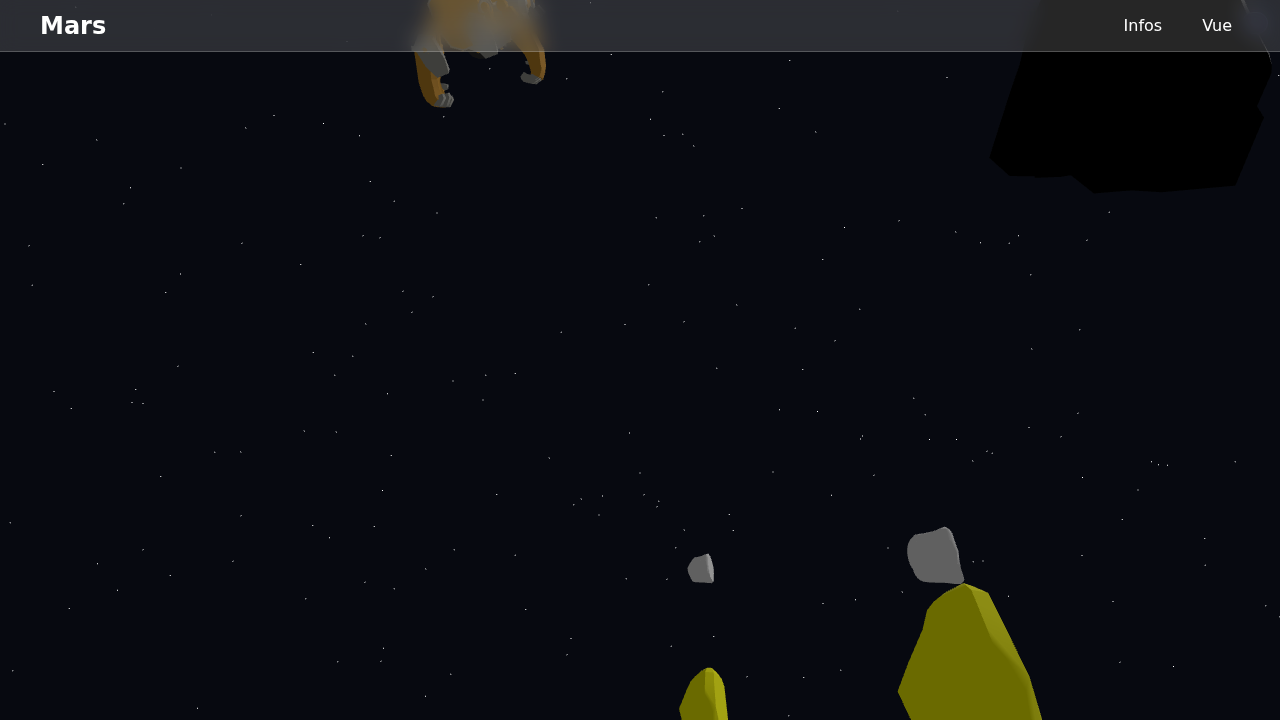
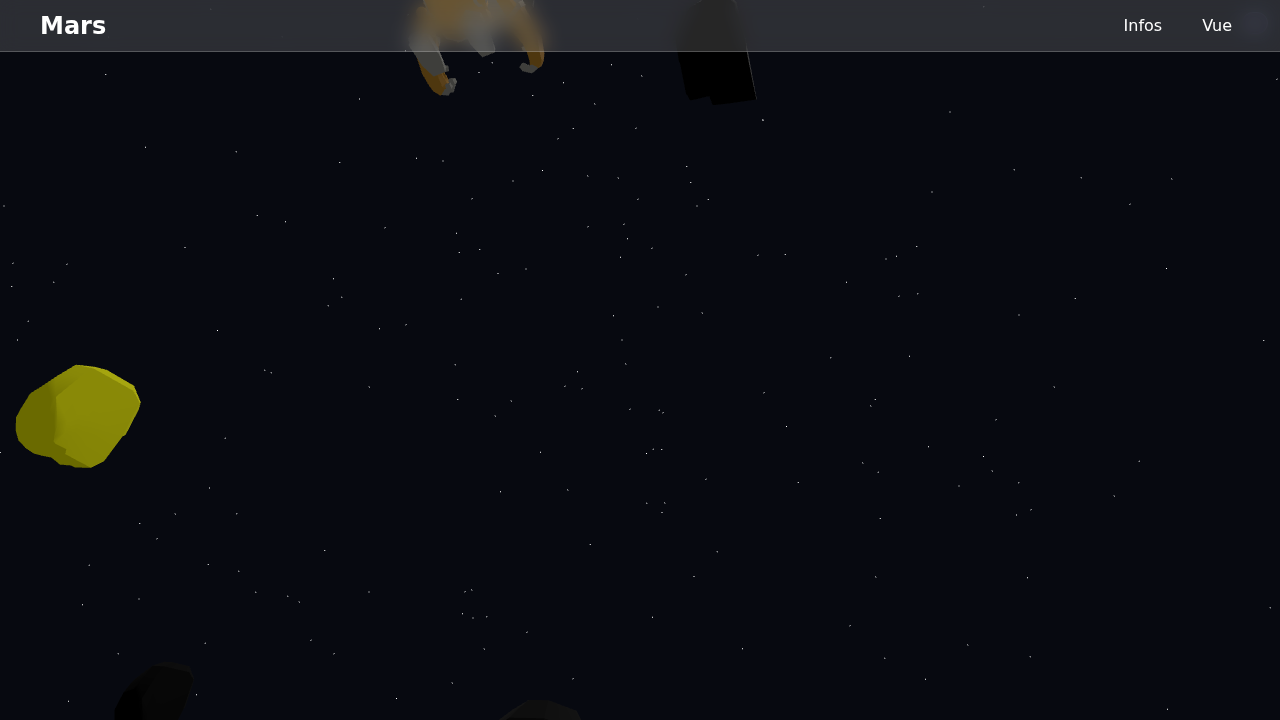
feat: Correction des ombres dynamiques
Cette modification corrige le problème des ombres qui ne suivaient pas le personnage.

- La lumière directionnelle est maintenant retournée par `initScene`.
- La position et la cible de la lumière directionnelle sont mises à jour dans la boucle principale pour suivre le personnage.
- Cela garantit que les ombres sont toujours projetées correctement lorsque le personnage se déplace.

diff --git a/src/main.js b/src/main.js
@@ -34,7 +34,8 @@ async function main() {
 		controls,
 		currentMode,
 		updateUI,
-		updateNavbar;
+		updateNavbar,
+		dirLight;
 
 	async function setup() {
 		// --- Renderer ---
@@ -53,6 +54,7 @@ async function main() {
 		camera = sceneData.camera;
 		planet = sceneData.planet;
 		ressources = sceneData.ressources;
+		dirLight = sceneData.dir;
 		Console.addMessage("Scene initialized");
 		Console.addMessage("Loading robot model...");
 
@@ -121,6 +123,11 @@ async function main() {
 		updateRobot(character, keys, tangentBasisAt, dt);
 		updateRessources(ressources, planet, dt);
 		updateCamera(currentMode, camera, character, controls);
+
+		if (dirLight && character && character.charPos) {
+			dirLight.position.copy(character.charPos).add(new THREE.Vector3(8, 10, 6));
+			dirLight.target.position.copy(character.charPos);
+		}
 
 		if (proximityManager && character && character.charPos) {
 			proximityManager.update();

diff --git a/src/scene.js b/src/scene.js
@@ -99,7 +99,7 @@ export function initScene(loadingManager) {
 
 	const ressources = ressourcesManager.get_ressources();
 	console.log(ressources);
-	return { scene, camera, planet, ressources };
+	return { scene, camera, planet, ressources, dir };
 }
 
 export function updateRessources(ressources, planet, dt) {
